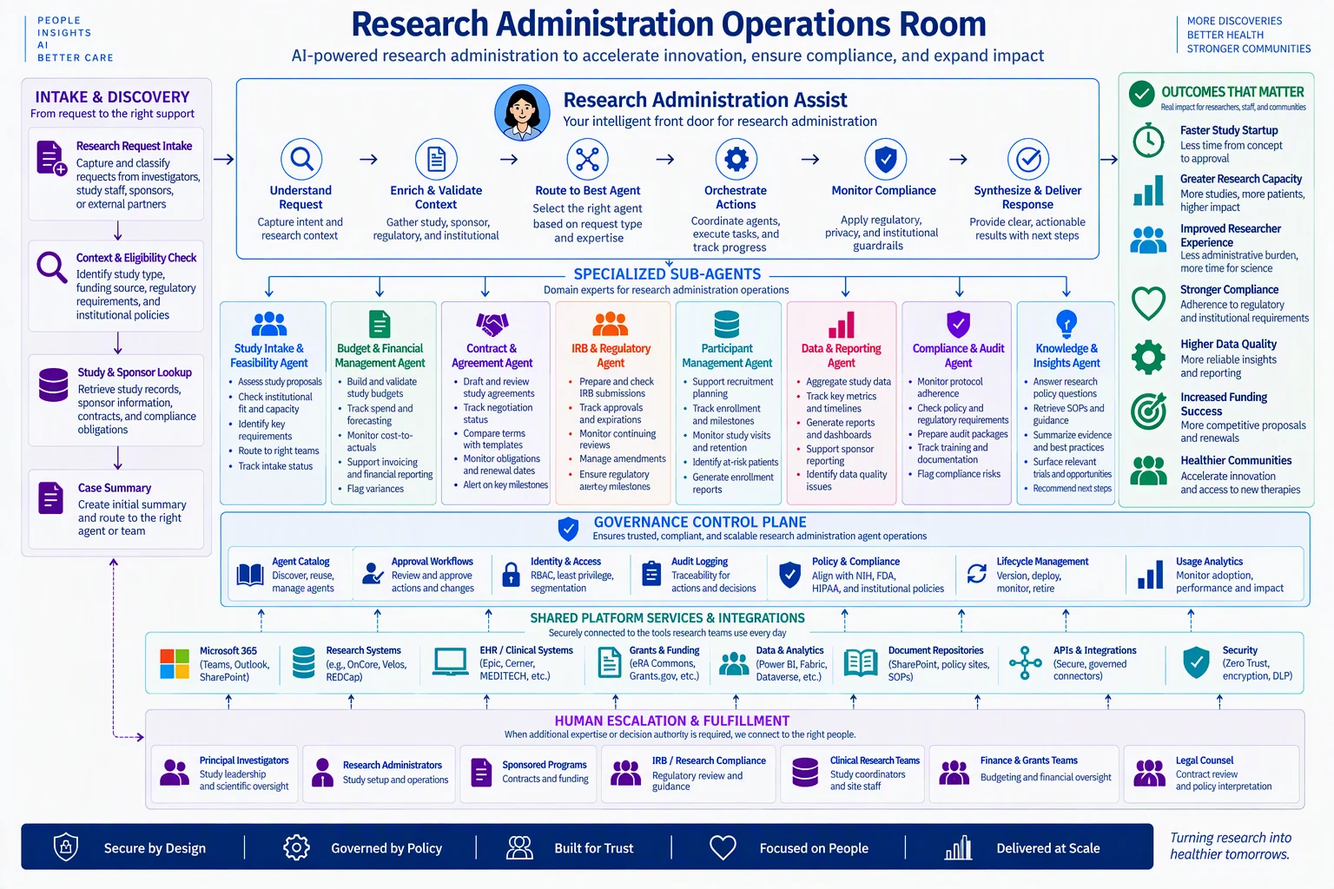
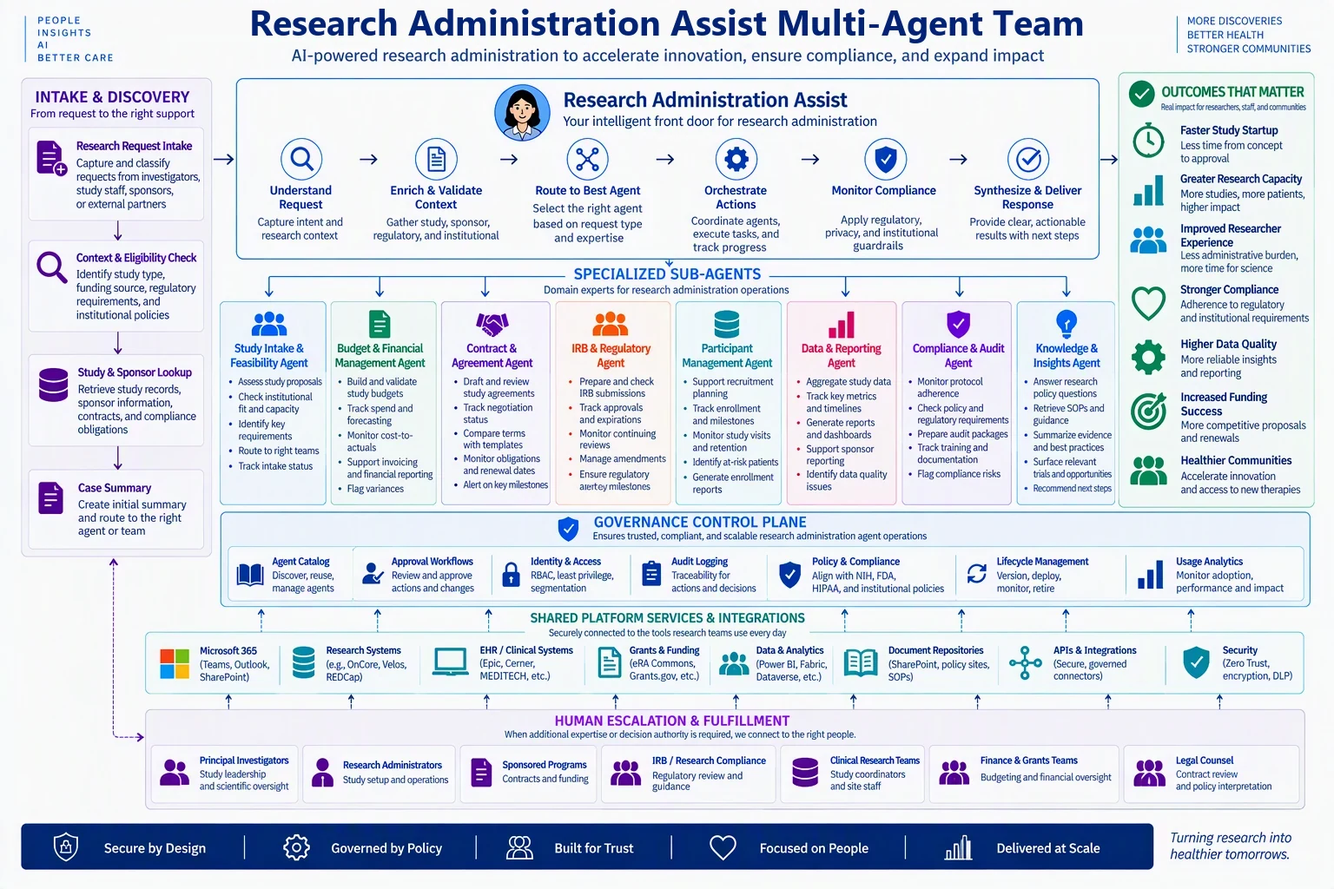
Retitle 14 existing diagrams to '[LOB] Assist Multi-Agent Team'

Changed region(s): [[0.1875, 0.0, 0.8125, 0.0625], [0.4375, 0.2812, 0.5, 0.3125], [0.5312, 0.2812, 0.5625, 0.3125]]

diff --git a/teams.js b/teams.js
@@ -91,12 +91,12 @@ window.HAIN_TEAMS = {
     outcomes: ['Faster resolutions', 'Better experience', 'Operational efficiency', 'Risk and compliance', 'Scalable innovation'],
     principles: ['Secure by design', 'Governed by policy', 'Built for trust', 'Focused on people', 'Delivered at scale']
   }, {
-    image: 'assets/hr-operations-room-agentic-team.webp?v=82',
+    image: 'assets/hr-operations-room-agentic-team.webp?v=84',
     width: 1536,
     height: 1024,
-    title: "Human Resources Operations Room",
+    title: "HR Operations Assist Multi-Agent Team",
     subtitle: "AI-powered HR operations to attract, develop, and support a healthy, high-performing workforce.",
-    alt: "Architecture diagram of the Human Resources Operations Room. A request from employees, leaders or candidates enters an intake and discovery flow of HR request intake, context and employee check, people data lookup, and case summary. HR Operations Assist, the front door, understands the request, enriches and validates employee data, policies and program information, routes it to the best agent, orchestrates actions, monitors compliance, and synthesizes and delivers the response. Eight specialized sub-agents sit below: Talent Acquisition, Employee Experience, Learning and Development, Benefits and Wellbeing, Employee Relations, Workforce Planning, HR Operations, and Compliance and Policy. A governance control plane and shared platform services and integrations sit underneath, with human escalation to HR business partners, the talent acquisition team, the benefits team, employee relations, people leaders, the HR operations team and executive leadership, and outcomes that matter on the right.",
+    alt: "Architecture diagram of the HR Operations Assist Multi-Agent Team. A request from employees, leaders or candidates enters an intake and discovery flow of HR request intake, context and employee check, people data lookup, and case summary. HR Operations Assist, the front door, understands the request, enriches and validates employee data, policies and program information, routes it to the best agent, orchestrates actions, monitors compliance, and synthesizes and delivers the response. Eight specialized sub-agents sit below: Talent Acquisition, Employee Experience, Learning and Development, Benefits and Wellbeing, Employee Relations, Workforce Planning, HR Operations, and Compliance and Policy. A governance control plane and shared platform services and integrations sit underneath, with human escalation to HR business partners, the talent acquisition team, the benefits team, employee relations, people leaders, the HR operations team and executive leadership, and outcomes that matter on the right.",
     assist: {
       name: "HR Operations Assist",
       line: "Your intelligent front door for HR support",
@@ -176,12 +176,12 @@ window.HAIN_TEAMS = {
     principles: ["Agents prepare, retrieve, route and monitor bounded work", "Accountable professionals retain consequential decisions"]
   },
   supply: {
-    image: 'assets/supply-chain-operations-room-agentic-team.webp?v=82',
+    image: 'assets/supply-chain-operations-room-agentic-team.webp?v=84',
     width: 1536,
     height: 1024,
-    title: "Supply Chain Operations Room",
+    title: "Supply Chain Operations Assist Multi-Agent Team",
     subtitle: "Multi-agent coordination for shortages, recalls, inventory exceptions, purchasing, and vendor operations.",
-    alt: "Architecture diagram of the Supply Chain Operations Room. Alerts, requests and external notifications enter an intake and discovery flow of alert and request intake, exception validation, inventory and contract search, and case summary. Supply Chain Operations Assist, the front door, detects and takes in the exception, reconciles data, routes the exception, prepares a response, sends it through an approval gate and tracks closure. Eight specialized sub-agents sit below: Supply Exception, Recall and Lot Coordination, Inventory and PAR Exception, Vendor and PO Exception, Expiration and Obsolescence, Substitute Product Coordination, Vendor Communication and Watchlist, and Demand and Usage Reporting. A governance control plane and shared platform services and integrations sit underneath, with human escalation to buyers, materials managers, pharmacy, value analysis, accounts payable, supply chain leadership and the clinical committee, and outcomes that matter on the right.",
+    alt: "Architecture diagram of the Supply Chain Operations Assist Multi-Agent Team. Alerts, requests and external notifications enter an intake and discovery flow of alert and request intake, exception validation, inventory and contract search, and case summary. Supply Chain Operations Assist, the front door, detects and takes in the exception, reconciles data, routes the exception, prepares a response, sends it through an approval gate and tracks closure. Eight specialized sub-agents sit below: Supply Exception, Recall and Lot Coordination, Inventory and PAR Exception, Vendor and PO Exception, Expiration and Obsolescence, Substitute Product Coordination, Vendor Communication and Watchlist, and Demand and Usage Reporting. A governance control plane and shared platform services and integrations sit underneath, with human escalation to buyers, materials managers, pharmacy, value analysis, accounts payable, supply chain leadership and the clinical committee, and outcomes that matter on the right.",
     assist: {
       name: "Supply Chain Operations Assist",
       line: "Your intelligent front door to supply chain operations",
@@ -206,12 +206,12 @@ window.HAIN_TEAMS = {
     principles: ["Secure by design", "Governed by policy", "Built for trust", "Focused on people", "Delivered at scale", "Humans approve substitutions, allocations, inventory adjustments, payment actions, disposition and material commitments"]
   },
   burnout: [{
-    image: 'assets/clinical-roles-room-agentic-team.webp',
+    image: 'assets/clinical-roles-room-agentic-team.webp?v=84',
     width: 1536,
     height: 1024,
-    title: "Clinical Roles Room",
+    title: "Clinical Roles Assist Multi-Agent Team",
     subtitle: "Administrative assistance around care, with licensed judgment retained by clinicians.",
-    alt: "Architecture diagram of the Clinical Roles Room. A request from clinical staff enters an intake and discovery flow of request intake, an administrative versus clinical check, approved knowledge search, and case summary. Clinical Roles Assist, the front door, understands the request, retrieves approved context, routes it to a bounded agent, prepares and coordinates the work, sends it for human review when required and delivers actionable results with citations. Eight specialized sub-agents sit below: Clinical Administrative Inbox, Documentation Preparation, Handoff Preparation, Policy and Procedure, Referral Coordination, Shift and Meeting Preparation, Patient Education Drafting, and Diagnostic Services Coordination. A governance control plane and shared platform services and integrations sit underneath, with human escalation to nurses, physicians and advanced practice providers, pharmacists, therapists, imaging and lab staff and care coordinators, and outcomes that matter on the right.",
+    alt: "Architecture diagram of the Clinical Roles Assist Multi-Agent Team. A request from clinical staff enters an intake and discovery flow of request intake, an administrative versus clinical check, approved knowledge search, and case summary. Clinical Roles Assist, the front door, understands the request, retrieves approved context, routes it to a bounded agent, prepares and coordinates the work, sends it for human review when required and delivers actionable results with citations. Eight specialized sub-agents sit below: Clinical Administrative Inbox, Documentation Preparation, Handoff Preparation, Policy and Procedure, Referral Coordination, Shift and Meeting Preparation, Patient Education Drafting, and Diagnostic Services Coordination. A governance control plane and shared platform services and integrations sit underneath, with human escalation to nurses, physicians and advanced practice providers, pharmacists, therapists, imaging and lab staff and care coordinators, and outcomes that matter on the right.",
     assist: {
       name: "Clinical Roles Assist",
       line: "Your intelligent front door for administrative care support",
@@ -235,12 +235,12 @@ window.HAIN_TEAMS = {
     outcomes: ["Lower documentation burden", "Faster administrative coordination", "Better handoffs", "Faster policy access", "Reduced status chasing", "More time for care"],
     principles: ["No autonomous diagnosis, symptom triage, protocol selection, medication decisions, critical-result interpretation, imaging prioritization, therapy goals, or treatment recommendation", "Human judgment. Better care."]
   }, {
-    image: 'assets/provider-experience-operations-room-agentic-team.webp?v=82',
+    image: 'assets/provider-experience-operations-room-agentic-team.webp?v=84',
     width: 1536,
     height: 1024,
-    title: "Provider Experience Operations Room",
+    title: "Provider Experience Assist Multi-Agent Team",
     subtitle: "AI-powered provider experience operations to reduce administrative burden and enable focused, high-quality care.",
-    alt: "Architecture diagram of the Provider Experience Operations Room. A request from clinicians, providers and care teams enters an intake and discovery flow of provider request intake, context and impact check, systems and data lookup, and case summary. Provider Experience Assist, the front door, understands the request, enriches and validates provider, practice, contract and operational data, routes it to the best agent, orchestrates actions, monitors compliance, and synthesizes and delivers the response. Eight specialized sub-agents sit below: Provider Onboarding, Credentialing and Enrollment, Scheduling and Access, Administrative Support, Performance and Insights, Wellbeing and Support, Communication and Engagement, and Policy and Knowledge. A governance control plane and shared platform services and integrations sit underneath, with human escalation to the provider experience team, medical staff services, HR and wellbeing, IT support, clinical leadership and executive sponsors, and outcomes that matter on the right.",
+    alt: "Architecture diagram of the Provider Experience Assist Multi-Agent Team. A request from clinicians, providers and care teams enters an intake and discovery flow of provider request intake, context and impact check, systems and data lookup, and case summary. Provider Experience Assist, the front door, understands the request, enriches and validates provider, practice, contract and operational data, routes it to the best agent, orchestrates actions, monitors compliance, and synthesizes and delivers the response. Eight specialized sub-agents sit below: Provider Onboarding, Credentialing and Enrollment, Scheduling and Access, Administrative Support, Performance and Insights, Wellbeing and Support, Communication and Engagement, and Policy and Knowledge. A governance control plane and shared platform services and integrations sit underneath, with human escalation to the provider experience team, medical staff services, HR and wellbeing, IT support, clinical leadership and executive sponsors, and outcomes that matter on the right.",
     assist: {
       name: "Provider Experience Assist",
       line: "Your intelligent front door for provider support",
@@ -265,12 +265,12 @@ window.HAIN_TEAMS = {
     principles: ["Secure by design", "Governed by policy", "Built for trust", "Focused on people", "Delivered at scale", "Empowering providers to deliver their best care"]
   }],
   quality: {
-    image: 'assets/quality-safety-room-agentic-team.webp',
+    image: 'assets/quality-safety-room-agentic-team.webp?v=84',
     width: 1536,
     height: 1024,
-    title: "Quality & Safety Room",
+    title: "Quality & Safety Assist Multi-Agent Team",
     subtitle: "Governed agents for evidence collection, event operations, audit readiness, and action tracking.",
-    alt: "Architecture diagram of the Quality and Safety Room. Events, concerns, requests and external sources enter an intake and discovery flow of event and request intake, a completeness check, approved taxonomy and standards, and case summary. Quality and Safety Assist, the front door, takes in the event or request, normalizes and validates it, routes it to the best agent, gathers evidence, tracks actions and sends it for human review. Eight specialized sub-agents sit below: Safety Event Intake, Quality Measure Evidence, Audit and Accreditation Evidence, CAPA Tracking, Safety Huddle Preparation, Regulatory Report Preparation, RCA Preparation, and Policy Surveillance and Change. A governance control plane and shared platform services and integrations sit underneath, with human escalation to safety professionals, quality leaders, accreditation leads, regulatory specialists, clinical owners and legal and privacy. A Nursing Operations Assist agent portfolio strip shows the same agents with example use cases for nursing.",
+    alt: "Architecture diagram of the Quality and Safety Assist Multi-Agent Team. Events, concerns, requests and external sources enter an intake and discovery flow of event and request intake, a completeness check, approved taxonomy and standards, and case summary. Quality and Safety Assist, the front door, takes in the event or request, normalizes and validates it, routes it to the best agent, gathers evidence, tracks actions and sends it for human review. Eight specialized sub-agents sit below: Safety Event Intake, Quality Measure Evidence, Audit and Accreditation Evidence, CAPA Tracking, Safety Huddle Preparation, Regulatory Report Preparation, RCA Preparation, and Policy Surveillance and Change. A governance control plane and shared platform services and integrations sit underneath, with human escalation to safety professionals, quality leaders, accreditation leads, regulatory specialists, clinical owners and legal and privacy. A Nursing Operations Assist agent portfolio strip shows the same agents with example use cases for nursing.",
     assist: {
       name: "Quality & Safety Assist",
       line: "Your intelligent front door to quality and safety operations",
@@ -295,12 +295,12 @@ window.HAIN_TEAMS = {
     principles: ["People first", "Governed by policy", "Built for trust", "Focused on outcomes", "Scalable for what is next", "Classification, severity, reportability, causality, conformance, corrective-action closure and regulatory attestation remain human decisions"]
   },
   revenue: {
-    image: 'assets/revenue-cycle-operations-room-agentic-team.webp?v=82',
+    image: 'assets/revenue-cycle-operations-room-agentic-team.webp?v=84',
     width: 1536,
     height: 1024,
-    title: "Revenue Cycle Management Operations Room",
+    title: "Revenue Cycle Management Assist Multi-Agent Team",
     subtitle: "AI-powered revenue cycle operations across access, coding, claims, denials, and patient financial experience.",
-    alt: "Architecture diagram of the Revenue Cycle Management Operations Room. A request from providers, staff or patients enters an intake and discovery flow of RCM request intake, context and eligibility check, coverage and authorization lookup, and case summary. Revenue Cycle Management Assist, the front door, understands the request, enriches and validates it with eligibility, claims and account data, routes it to the best agent, orchestrates actions, monitors compliance and synthesizes and delivers the response. Eight specialized sub-agents sit below: Patient Access, Claims Intake and Status, Coding and Documentation, Denial Management, Payment Posting and Reconciliation, Patient Financial Experience, Revenue Integrity, and Payer Policy Intelligence. A governance control plane and shared platform services and integrations sit underneath, with human escalation to patient access staff, coding specialists, RCM analysts, patient financial services, compliance and privacy, clinical staff and finance leadership, and outcomes that matter on the right.",
+    alt: "Architecture diagram of the Revenue Cycle Management Assist Multi-Agent Team. A request from providers, staff or patients enters an intake and discovery flow of RCM request intake, context and eligibility check, coverage and authorization lookup, and case summary. Revenue Cycle Management Assist, the front door, understands the request, enriches and validates it with eligibility, claims and account data, routes it to the best agent, orchestrates actions, monitors compliance and synthesizes and delivers the response. Eight specialized sub-agents sit below: Patient Access, Claims Intake and Status, Coding and Documentation, Denial Management, Payment Posting and Reconciliation, Patient Financial Experience, Revenue Integrity, and Payer Policy Intelligence. A governance control plane and shared platform services and integrations sit underneath, with human escalation to patient access staff, coding specialists, RCM analysts, patient financial services, compliance and privacy, clinical staff and finance leadership, and outcomes that matter on the right.",
     assist: {
       name: "Revenue Cycle Management Assist",
       line: "Your intelligent front door to revenue cycle operations",
@@ -325,12 +325,12 @@ window.HAIN_TEAMS = {
     principles: ["Secure by design", "Governed by policy", "Built for trust", "Focused on people", "Delivered at scale", "Clinical, financial and policy decisions remain with qualified professionals"]
   },
   it: {
-    image: 'assets/it-data-digital-operations-room-agentic-team.webp?v=82',
+    image: 'assets/it-data-digital-operations-room-agentic-team.webp?v=84',
     width: 1536,
     height: 1024,
-    title: "IT, Data & Digital Operations Room",
+    title: "IT, Data & Digital Operations Assist Multi-Agent Team",
     subtitle: "AI-powered IT service, security, data, and digital operations to keep care running.",
-    alt: "Architecture diagram of the IT, Data and Digital Operations Room. A request from employees, clinicians or systems enters an intake and discovery flow of service request intake, context and impact check, user and system lookup, and case summary. IT, Data and Digital Operations Assist, the front door, understands the request, enriches and validates context, routes it to the best agent, orchestrates actions, monitors security and compliance, and synthesizes and delivers the response. Eight specialized sub-agents sit below: Service Request Intake and Routing, Incident Command, Access Review Evidence, Change Readiness, Data Quality Case, Analytics Request Scoping, Operating Review, and Knowledge and Status. A governance control plane and shared platform services and integrations sit underneath, with human escalation to the service desk, IAM and security, application owners, data owners, incident managers, and change advisory and IT leaders, and outcomes that matter on the right.",
+    alt: "Architecture diagram of the IT, Data and Digital Operations Assist Multi-Agent Team. A request from employees, clinicians or systems enters an intake and discovery flow of service request intake, context and impact check, user and system lookup, and case summary. IT, Data and Digital Operations Assist, the front door, understands the request, enriches and validates context, routes it to the best agent, orchestrates actions, monitors security and compliance, and synthesizes and delivers the response. Eight specialized sub-agents sit below: Service Request Intake and Routing, Incident Command, Access Review Evidence, Change Readiness, Data Quality Case, Analytics Request Scoping, Operating Review, and Knowledge and Status. A governance control plane and shared platform services and integrations sit underneath, with human escalation to the service desk, IAM and security, application owners, data owners, incident managers, and change advisory and IT leaders, and outcomes that matter on the right.",
     assist: {
       name: "IT, Data & Digital Operations Assist",
       line: "Your intelligent front door for IT and digital operations",
@@ -355,12 +355,12 @@ window.HAIN_TEAMS = {
     principles: ["Secure by design", "Governed by policy", "Built for trust", "Focused on people", "Delivered at scale", "Security, access, production change and authoritative data decisions remain human-controlled"]
   },
   growth: [{
-    image: 'assets/marketing-operations-room-agentic-team.webp?v=82',
+    image: 'assets/marketing-operations-room-agentic-team.webp?v=84',
     width: 1536,
     height: 1024,
-    title: "Marketing Operations Room",
+    title: "Marketing Operations Assist Multi-Agent Team",
     subtitle: "AI-powered marketing operations to engage patients, grow markets, and build trusted brands.",
-    alt: "Architecture diagram of the Marketing Operations Room. A request from staff, leaders or external partners enters an intake and discovery flow of marketing request intake, context and audience check, asset and data lookup, and case summary. Marketing Operations Assist, the front door, understands the request, enriches and validates context, routes it to the best agent, orchestrates actions, monitors compliance, and synthesizes and delivers the response. Seven specialized sub-agents sit below: Campaign Strategy, Content Creation, Asset Management, Approval and Workflow, Analytics and Insights, Event and Experience, and Privacy and Compliance. A governance control plane and shared platform services and integrations sit underneath, with human escalation to the marketing team, creative services, legal and compliance, external partners and executive leadership, and outcomes that matter on the right.",
+    alt: "Architecture diagram of the Marketing Operations Assist Multi-Agent Team. A request from staff, leaders or external partners enters an intake and discovery flow of marketing request intake, context and audience check, asset and data lookup, and case summary. Marketing Operations Assist, the front door, understands the request, enriches and validates context, routes it to the best agent, orchestrates actions, monitors compliance, and synthesizes and delivers the response. Seven specialized sub-agents sit below: Campaign Strategy, Content Creation, Asset Management, Approval and Workflow, Analytics and Insights, Event and Experience, and Privacy and Compliance. A governance control plane and shared platform services and integrations sit underneath, with human escalation to the marketing team, creative services, legal and compliance, external partners and executive leadership, and outcomes that matter on the right.",
     assist: {
       name: "Marketing Operations Assist",
       line: "Your intelligent front door for marketing support",
@@ -383,12 +383,12 @@ window.HAIN_TEAMS = {
     outcomes: ["Faster campaign execution", "Stronger brand consistency", "Increased patient engagement", "Higher marketing ROI", "Greater compliance", "More productive teams"],
     principles: ["Secure by design", "Governed by policy", "Built for trust", "Focused on people", "Delivered at scale", "Marketing drives healthier people and stronger communities"]
   }, {
-    image: 'assets/sales-growth-operations-room-agentic-team.webp?v=82',
+    image: 'assets/sales-growth-operations-room-agentic-team.webp?v=84',
     width: 1536,
     height: 1024,
-    title: "Sales & Growth Operations Room",
+    title: "Sales & Growth Assist Multi-Agent Team",
     subtitle: "AI-powered business development and relationship management to expand access, partnerships, and market growth.",
-    alt: "Architecture diagram of the Sales and Growth Operations Room. A request from referral sources, employers, payers or internal teams enters an intake and discovery flow of growth request intake, context and opportunity assessment, data and relationship lookup, and case summary. Sales and Growth Assist, the front door, understands the request, enriches and validates context, routes it to the best agent, orchestrates actions, monitors compliance, and synthesizes and delivers the response. Seven specialized sub-agents sit below: Account and Relationship Intelligence, RFP and Proposal, Market Intelligence, Referral Development, Payer and Employer Engagement, Contract and Negotiation Support, and Marketing and Campaign Support. A governance control plane and shared platform services and integrations sit underneath, with human escalation to the sales and growth team, provider relations, contracting and legal, marketing and communications, finance and executive leadership, and outcomes that matter on the right.",
+    alt: "Architecture diagram of the Sales and Growth Assist Multi-Agent Team. A request from referral sources, employers, payers or internal teams enters an intake and discovery flow of growth request intake, context and opportunity assessment, data and relationship lookup, and case summary. Sales and Growth Assist, the front door, understands the request, enriches and validates context, routes it to the best agent, orchestrates actions, monitors compliance, and synthesizes and delivers the response. Seven specialized sub-agents sit below: Account and Relationship Intelligence, RFP and Proposal, Market Intelligence, Referral Development, Payer and Employer Engagement, Contract and Negotiation Support, and Marketing and Campaign Support. A governance control plane and shared platform services and integrations sit underneath, with human escalation to the sales and growth team, provider relations, contracting and legal, marketing and communications, finance and executive leadership, and outcomes that matter on the right.",
     assist: {
       name: "Sales & Growth Assist",
       line: "Your intelligent front door for growth and partnership support",
@@ -412,12 +412,12 @@ window.HAIN_TEAMS = {
     principles: ["Secure by design", "Governed by policy", "Built for trust", "Focused on people", "Delivered at scale", "Healthier communities through stronger partnerships and greater access"]
   }],
   pmo: {
-    image: 'assets/pmo-operations-room-agentic-team.webp?v=82',
+    image: 'assets/pmo-operations-room-agentic-team.webp?v=84',
     width: 1536,
     height: 1024,
-    title: "Product, Portfolio & PMO Operations Room",
+    title: "Product, Portfolio & PMO Assist Multi-Agent Team",
     subtitle: "AI-powered portfolio and program execution to turn strategy into measurable impact.",
-    alt: "Architecture diagram of the Product, Portfolio and PMO Operations Room. A request from executives, teams or stakeholders enters an intake and discovery flow of portfolio request intake, context and prioritization, project and initiative lookup, and case summary. Product, Portfolio and PMO Assist, the front door, understands the request, enriches and validates context, routes it to the best agent, orchestrates actions, monitors progress and risk, and synthesizes and delivers the response. Eight specialized sub-agents sit below: Idea and Intake, Portfolio Planning, Program Management, Project Execution, Risk and Issue Management, Resource and Capacity, Reporting and Insights, and Knowledge and Lessons Learned. A governance control plane and shared platform services and integrations sit underneath, with human escalation to PMO leadership, business executives, program managers, finance partners, IT and data teams, change management and operational leaders, and outcomes that matter on the right.",
+    alt: "Architecture diagram of the Product, Portfolio and PMO Assist Multi-Agent Team. A request from executives, teams or stakeholders enters an intake and discovery flow of portfolio request intake, context and prioritization, project and initiative lookup, and case summary. Product, Portfolio and PMO Assist, the front door, understands the request, enriches and validates context, routes it to the best agent, orchestrates actions, monitors progress and risk, and synthesizes and delivers the response. Eight specialized sub-agents sit below: Idea and Intake, Portfolio Planning, Program Management, Project Execution, Risk and Issue Management, Resource and Capacity, Reporting and Insights, and Knowledge and Lessons Learned. A governance control plane and shared platform services and integrations sit underneath, with human escalation to PMO leadership, business executives, program managers, finance partners, IT and data teams, change management and operational leaders, and outcomes that matter on the right.",
     assist: {
       name: "Product, Portfolio & PMO Assist",
       line: "Your intelligent front door for portfolio and program support",
@@ -442,12 +442,12 @@ window.HAIN_TEAMS = {
     principles: ["Secure by design", "Governed by policy", "Built for trust", "Focused on people", "Delivered at scale", "Strategy, investment, prioritization and funding decisions remain with accountable leaders"]
   },
   access: [{
-    image: 'assets/patient-access-operations-room-agentic-team.webp?v=82',
+    image: 'assets/patient-access-operations-room-agentic-team.webp?v=84',
     width: 1536,
     height: 1024,
-    title: "Patient Access Operations Room",
+    title: "Patient Access Assist Multi-Agent Team",
     subtitle: "AI-powered access operations to get the right patients to the right care at the right time.",
-    alt: "Architecture diagram of the Patient Access Operations Room. A request from patients, providers, staff or external partners enters an intake and discovery flow of access request intake, patient and insurance verification, appointment and referral lookup, and case summary. Patient Access Assist, the front door, understands the request, enriches and validates patient, insurance, provider and service information, routes it to the best agent, orchestrates actions, monitors compliance, and synthesizes and delivers the response. Seven specialized sub-agents sit below: Scheduling, Eligibility and Benefits, Referral Management, Patient Intake, Authorization Support, Patient Communication, and Access Analytics. A governance control plane and shared platform services and integrations sit underneath, with human escalation to patient access staff, clinical teams, authorization specialists, patient financial services, compliance and privacy, and access leadership, and outcomes that matter on the right.",
+    alt: "Architecture diagram of the Patient Access Assist Multi-Agent Team. A request from patients, providers, staff or external partners enters an intake and discovery flow of access request intake, patient and insurance verification, appointment and referral lookup, and case summary. Patient Access Assist, the front door, understands the request, enriches and validates patient, insurance, provider and service information, routes it to the best agent, orchestrates actions, monitors compliance, and synthesizes and delivers the response. Seven specialized sub-agents sit below: Scheduling, Eligibility and Benefits, Referral Management, Patient Intake, Authorization Support, Patient Communication, and Access Analytics. A governance control plane and shared platform services and integrations sit underneath, with human escalation to patient access staff, clinical teams, authorization specialists, patient financial services, compliance and privacy, and access leadership, and outcomes that matter on the right.",
     assist: {
       name: "Patient Access Assist",
       line: "Your intelligent front door for patient access and scheduling",
@@ -470,12 +470,12 @@ window.HAIN_TEAMS = {
     outcomes: ["Shorter wait times", "Higher access rates", "Better patient experience", "Greater operational efficiency", "Stronger compliance", "More productive teams"],
     principles: ["Secure by design", "Governed by policy", "Built for trust", "Focused on people", "Delivered at scale", "Removing barriers to care to build healthier communities"]
   }, {
-    image: 'assets/contact-center-patient-experience-operations-room-agentic-team.webp?v=82',
+    image: 'assets/contact-center-patient-experience-operations-room-agentic-team.webp?v=84',
     width: 1536,
     height: 1024,
-    title: "Contact Center & Patient Experience Operations Room",
+    title: "Patient Experience Assist Multi-Agent Team",
     subtitle: "AI-powered patient engagement to deliver faster, easier, and more personalized support.",
-    alt: "Architecture diagram of the Contact Center and Patient Experience Operations Room. A request from phone, chat, email, portal or in-person interactions enters an intake and discovery flow of patient inquiry intake, context and patient lookup, coverage and policy check, and case summary. Patient Experience Assist, the front door, understands the request, enriches and validates patient data, coverage and history, routes it to the best agent, orchestrates actions, monitors compliance, and synthesizes and delivers the response. Eight specialized sub-agents sit below: Patient Inquiry, Scheduling and Appointment, Eligibility and Benefits, Billing and Payment Support, Care Navigation, Patient Outreach, Feedback and Engagement, and Knowledge and Policy. A governance control plane and shared platform services and integrations sit underneath, with human escalation to contact center representatives, clinical triage teams, scheduling specialists, patient financial services, care management teams, compliance and privacy, and leadership teams, and outcomes that matter on the right.",
+    alt: "Architecture diagram of the Patient Experience Assist Multi-Agent Team. A request from phone, chat, email, portal or in-person interactions enters an intake and discovery flow of patient inquiry intake, context and patient lookup, coverage and policy check, and case summary. Patient Experience Assist, the front door, understands the request, enriches and validates patient data, coverage and history, routes it to the best agent, orchestrates actions, monitors compliance, and synthesizes and delivers the response. Eight specialized sub-agents sit below: Patient Inquiry, Scheduling and Appointment, Eligibility and Benefits, Billing and Payment Support, Care Navigation, Patient Outreach, Feedback and Engagement, and Knowledge and Policy. A governance control plane and shared platform services and integrations sit underneath, with human escalation to contact center representatives, clinical triage teams, scheduling specialists, patient financial services, care management teams, compliance and privacy, and leadership teams, and outcomes that matter on the right.",
     assist: {
       name: "Patient Experience Assist",
       line: "Your intelligent front door for patient and member support",
@@ -500,12 +500,12 @@ window.HAIN_TEAMS = {
     principles: ["Secure by design", "Governed by policy", "Built for trust", "Focused on people", "Delivered at scale", "Every interaction is an opportunity to create a healthier tomorrow"]
   }],
   research: {
-    image: 'assets/research-administration-operations-room-agentic-team.webp?v=82',
+    image: 'assets/research-administration-operations-room-agentic-team.webp?v=84',
     width: 1536,
     height: 1024,
-    title: "Research Administration Operations Room",
+    title: "Research Administration Assist Multi-Agent Team",
     subtitle: "AI-powered research administration to accelerate innovation, ensure compliance, and expand impact.",
-    alt: "Architecture diagram of the Research Administration Operations Room. A request from investigators, study staff, sponsors or external partners enters an intake and discovery flow of research request intake, context and eligibility check, study and sponsor lookup, and case summary. Research Administration Assist, the front door, understands the request, enriches and validates study, sponsor, regulatory and institutional context, routes it to the best agent, orchestrates actions, monitors compliance, and synthesizes and delivers the response. Eight specialized sub-agents sit below: Study Intake and Feasibility, Budget and Financial Management, Contract and Agreement, IRB and Regulatory, Participant Management, Data and Reporting, Compliance and Audit, and Knowledge and Insights. A governance control plane and shared platform services and integrations sit underneath, with human escalation to principal investigators, research administrators, sponsored programs, IRB and research compliance, clinical research teams, finance and grants teams, and legal counsel, and outcomes that matter on the right.",
+    alt: "Architecture diagram of the Research Administration Assist Multi-Agent Team. A request from investigators, study staff, sponsors or external partners enters an intake and discovery flow of research request intake, context and eligibility check, study and sponsor lookup, and case summary. Research Administration Assist, the front door, understands the request, enriches and validates study, sponsor, regulatory and institutional context, routes it to the best agent, orchestrates actions, monitors compliance, and synthesizes and delivers the response. Eight specialized sub-agents sit below: Study Intake and Feasibility, Budget and Financial Management, Contract and Agreement, IRB and Regulatory, Participant Management, Data and Reporting, Compliance and Audit, and Knowledge and Insights. A governance control plane and shared platform services and integrations sit underneath, with human escalation to principal investigators, research administrators, sponsored programs, IRB and research compliance, clinical research teams, finance and grants teams, and legal counsel, and outcomes that matter on the right.",
     assist: {
       name: "Research Administration Assist",
       line: "Your intelligent front door for research administration",
@@ -530,12 +530,12 @@ window.HAIN_TEAMS = {
     principles: ["Secure by design", "Governed by policy", "Built for trust", "Focused on people", "Delivered at scale", "Turning research into healthier tomorrows"]
   },
   ambulatory: {
-    image: 'assets/ambulatory-specialty-care-operations-room-agentic-team.webp?v=82',
+    image: 'assets/ambulatory-specialty-care-operations-room-agentic-team.webp?v=84',
     width: 1536,
     height: 1024,
-    title: "Ambulatory & Specialty Care Operations Room",
+    title: "Ambulatory & Specialty Care Assist Multi-Agent Team",
     subtitle: "AI-powered ambulatory and specialty care operations to improve access, coordination, and clinical outcomes.",
-    alt: "Architecture diagram of the Ambulatory and Specialty Care Operations Room. A request from patients, providers or staff enters an intake and discovery flow of care request intake, context and eligibility check, patient and care data lookup, and case summary. Ambulatory and Specialty Care Assist, the front door, understands the request, enriches and validates patient, provider, clinical and coverage information, routes it to the best agent, orchestrates actions, monitors compliance, and synthesizes and delivers the response. Eight specialized sub-agents sit below: Scheduling and Access, Referral and Care Coordination, Authorization and Eligibility, Specialty Triage, Chronic Care Management, Patient Education, Performance and Operations, and Clinical Knowledge. A governance control plane and shared platform services and integrations sit underneath, with human escalation to front desk and access staff, clinical care teams, specialty care teams, the authorization team, care management, compliance and privacy, and operations leadership, and outcomes that matter on the right.",
+    alt: "Architecture diagram of the Ambulatory and Specialty Care Assist Multi-Agent Team. A request from patients, providers or staff enters an intake and discovery flow of care request intake, context and eligibility check, patient and care data lookup, and case summary. Ambulatory and Specialty Care Assist, the front door, understands the request, enriches and validates patient, provider, clinical and coverage information, routes it to the best agent, orchestrates actions, monitors compliance, and synthesizes and delivers the response. Eight specialized sub-agents sit below: Scheduling and Access, Referral and Care Coordination, Authorization and Eligibility, Specialty Triage, Chronic Care Management, Patient Education, Performance and Operations, and Clinical Knowledge. A governance control plane and shared platform services and integrations sit underneath, with human escalation to front desk and access staff, clinical care teams, specialty care teams, the authorization team, care management, compliance and privacy, and operations leadership, and outcomes that matter on the right.",
     assist: {
       name: "Ambulatory & Specialty Care Assist",
       line: "Your intelligent front door for ambulatory and specialty care operations",

diff --git a/index.html b/index.html
@@ -19,7 +19,7 @@
       } catch (e) {}
     })();
   </script>
-  <link rel="stylesheet" href="styles.css?v=83">
+  <link rel="stylesheet" href="styles.css?v=84">
 </head>
 <body>
   <a class="skip-link" href="#slides">Skip to main content</a>
@@ -277,10 +277,10 @@
     <img id="tmDialogImg" alt="">
   </dialog>
 
-  <script src="usecases.js?v=83"></script>
-  <script src="catalog.js?v=83"></script>
-  <script src="teams.js?v=83"></script>
-  <script src="resources.js?v=83"></script>
-  <script src="app.js?v=83"></script>
+  <script src="usecases.js?v=84"></script>
+  <script src="catalog.js?v=84"></script>
+  <script src="teams.js?v=84"></script>
+  <script src="resources.js?v=84"></script>
+  <script src="app.js?v=84"></script>
 </body>
 </html>
